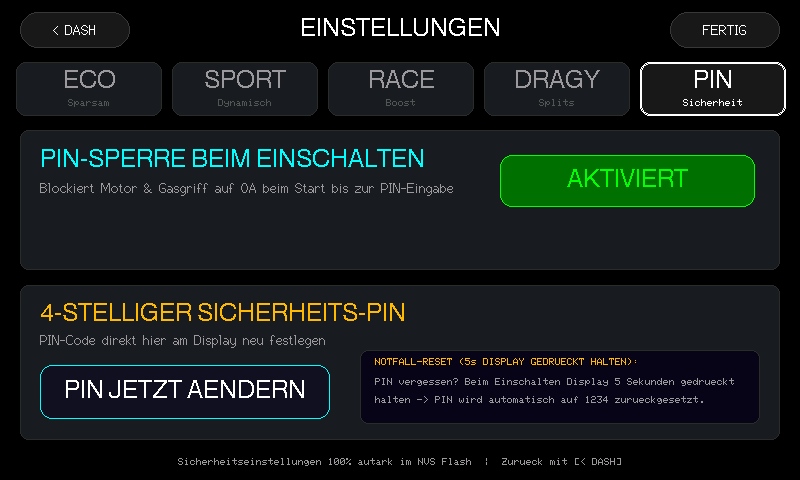
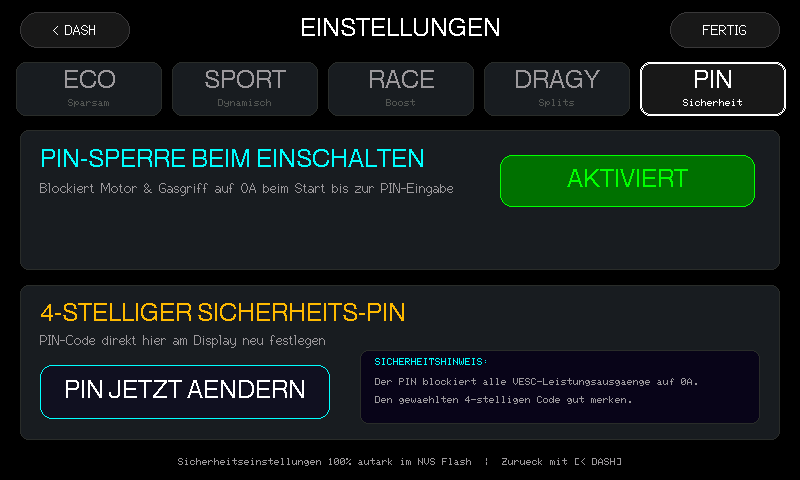
fix(ui): remove public emergency reset hint from lockscreen and settings

Changed region(s): [[0.4688, 0.75, 0.9062, 0.8438]]

diff --git a/src/dash_renderer.cpp b/src/dash_renderer.cpp
@@ -1472,7 +1472,7 @@ void DashboardRenderer::renderPinLockScreen(const DashTelemetry &telemetry) {
         // Footer Info
         _canvas->setFont(&fonts::Font2);
         _canvas->setTextColor(0x52AA, 0x0823);
-        _canvas->drawString("Notfall-Reset: Bildschirm 5s gedrueckt halten setzt PIN auf 1234", 400, 455);
+        _canvas->drawString("VESC Wegfahrsperre aktiv  |  Antrieb blockiert", 400, 455);
     }
 
     // Only update PIN Circles and Status Hint if state changed (Zero Flicker!)
@@ -1696,16 +1696,16 @@ void DashboardRenderer::renderSettingsScreen(const DashTelemetry &telemetry) {
         _canvas->setTextColor(COLOR_WHITE, 0x1084);
         _canvas->drawString("PIN JETZT AENDERN", 40 + 145, 365 + 27);
 
-        // Emergency Recovery Info Box
+        // Security Info Box
         _canvas->fillRoundRect(360, 350, 400, 74, 8, 0x0823);
         _canvas->drawRoundRect(360, 350, 400, 74, 8, 0x2965);
         _canvas->setFont(&fonts::Font0);
-        _canvas->setTextColor(COLOR_AMBER, 0x0823);
+        _canvas->setTextColor(COLOR_CYAN, 0x0823);
         _canvas->setTextDatum(textdatum_t::top_left);
-        _canvas->drawString("NOTFALL-RESET (5s DISPLAY GEDRUECKT HALTEN):", 375, 358);
+        _canvas->drawString("SICHERHEITSHINWEIS:", 375, 358);
         _canvas->setTextColor(COLOR_MUTED_GRAY, 0x0823);
-        _canvas->drawString("PIN vergessen? Beim Einschalten Display 5 Sekunden gedrueckt", 375, 378);
-        _canvas->drawString("halten -> PIN wird automatisch auf 1234 zurueckgesetzt.", 375, 396);
+        _canvas->drawString("Der PIN blockiert alle VESC-Leistungsausgaenge auf 0A.", 375, 378);
+        _canvas->drawString("Den gewaehlten 4-stelligen Code gut merken.", 375, 396);
 
         // Footer Strip
         _canvas->setFont(&fonts::Font0);
